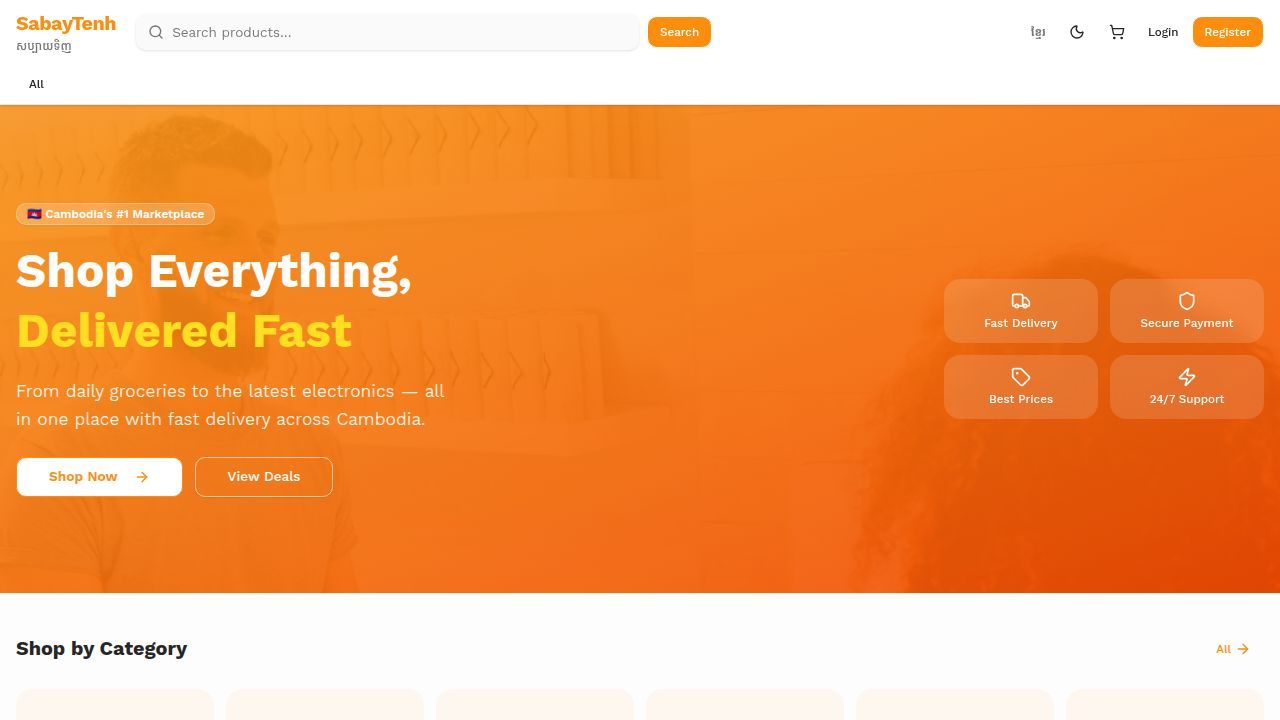
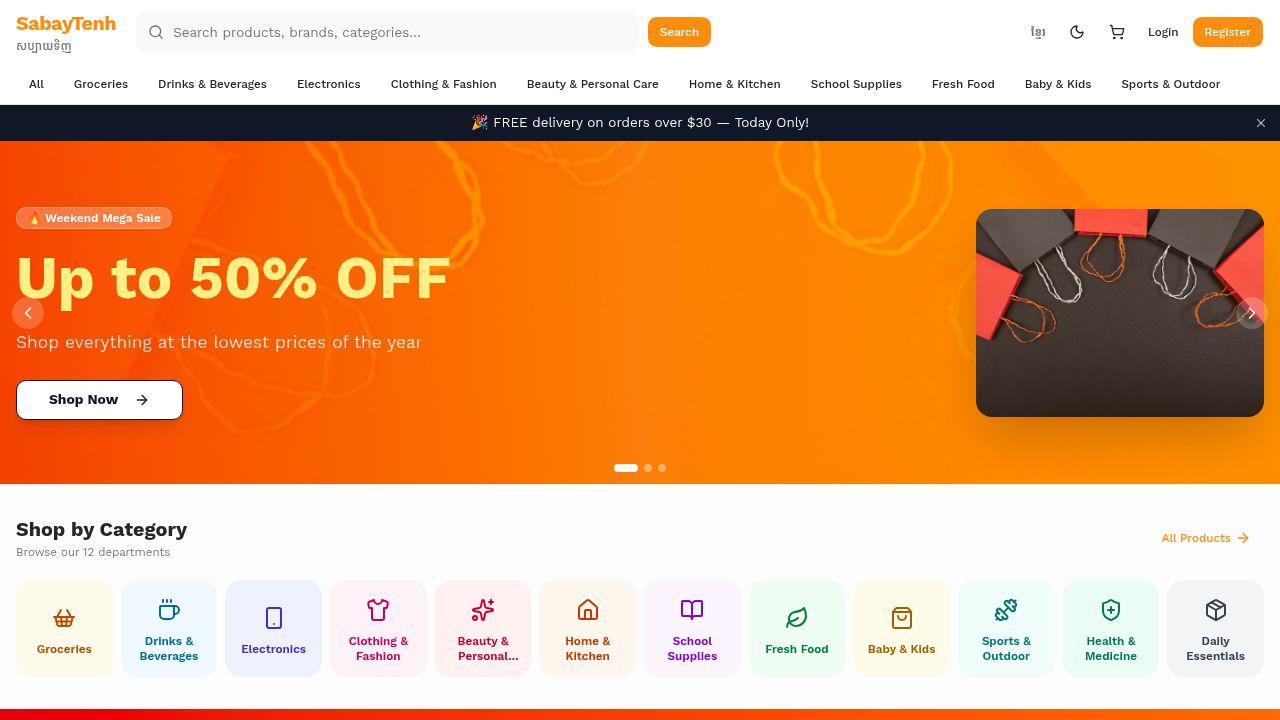
Prevent runtime crashes during API file generation
Configure Vite to ignore generated API files and pre-bundle React to avoid duplicate instances, thus preventing runtime crashes.

Replit-Commit-Author: Agent
Replit-Commit-Session-Id: 143526a3-201a-43e7-880e-a2f029cc78f7
Replit-Commit-Checkpoint-Type: full_checkpoint
Replit-Commit-Event-Id: 80f335f6-d54f-4fad-b74e-65140b7350a0
Replit-Commit-Screenshot-Url: https://storage.googleapis.com/screenshot-production-us-central1/2a76a84a-dbb5-48c7-871f-368d7fa16b79/143526a3-201a-43e7-880e-a2f029cc78f7/ZSxFz9m
Replit-Helium-Checkpoint-Created: true

diff --git a/artifacts/sabaytenh/vite.config.ts b/artifacts/sabaytenh/vite.config.ts
@@ -66,6 +66,14 @@ export default defineConfig({
     fs: {
       strict: true,
     },
+    watch: {
+      ignored: [
+        "**/lib/api-client-react/src/generated/**",
+      ],
+    },
+  },
+  optimizeDeps: {
+    include: ["react", "react-dom"],
   },
   preview: {
     port,